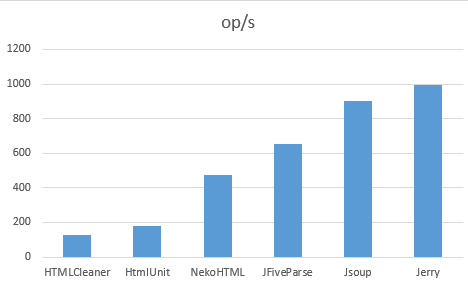
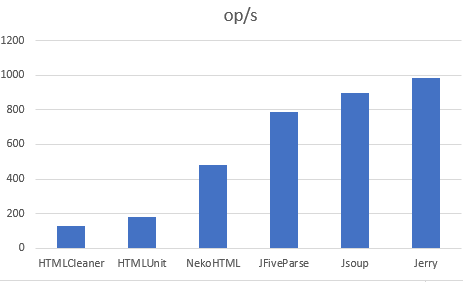
removed NodeMatcher from JFiveParse benchmark

diff --git a/src/main/java/com/github/newk5/htmlparserbench/JFiveParseBench.java b/src/main/java/com/github/newk5/htmlparserbench/JFiveParseBench.java
@@ -3,9 +3,6 @@ package com.github.newk5.htmlparserbench;
 import ch.digitalfondue.jfiveparse.Document;
 import ch.digitalfondue.jfiveparse.Element;
 import ch.digitalfondue.jfiveparse.JFiveParse;
-import ch.digitalfondue.jfiveparse.Node;
-import ch.digitalfondue.jfiveparse.NodeMatcher;
-import ch.digitalfondue.jfiveparse.Selector;
 import java.io.IOException;
 import java.nio.charset.StandardCharsets;
 import java.nio.file.Files;
@@ -33,9 +30,8 @@ public class JFiveParseBench extends BaseBenchmark {
     @Benchmark
     public String benchmark() throws Exception {
         Document doc = JFiveParse.parse(content);
-        NodeMatcher matcher = Selector.select().id("mp-dyk-h2").toMatcher();
-        Node n = doc.getAllNodesMatching(matcher).stream().findFirst().get();
-        Element e = (Element) n;
+     
+        Element e = doc.getElementById("mp-dyk-h2");
         String c = e.getOuterHTML();
         return c;
     }
